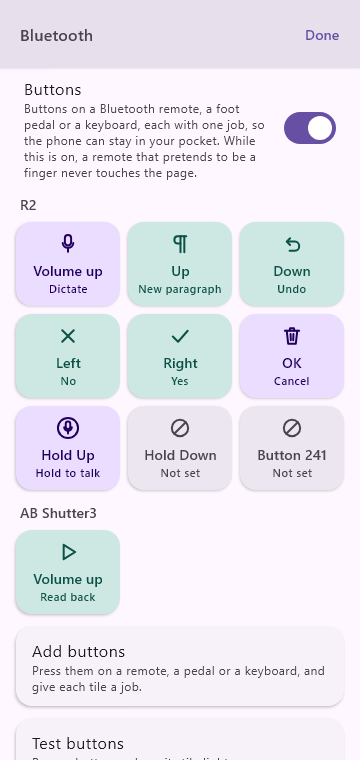
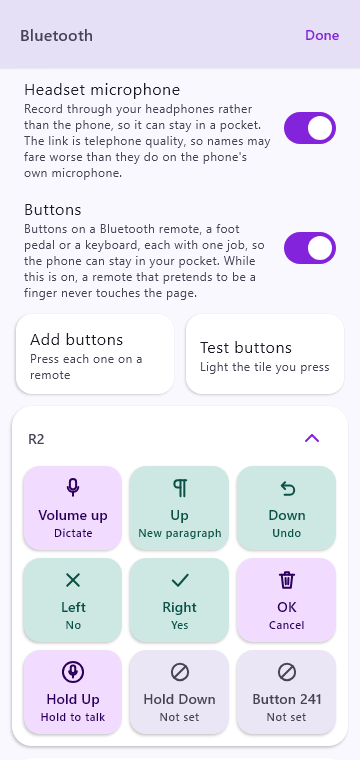
AKnght2Write page: hands-free is gone, and the newer commands and screens are listed
Hands-free was removed from the app on 2026-10-18, so the FAQ no longer says it is
built and waiting, the privacy page's microphone line drops the hands-free clause,
and "a long pause becomes a paragraph" goes, since nothing measures a pause between
presses. Added to the voice commands: line break and undo line break, quote <n>, add
note, turn on / turn off / set ... to; capitalize that on the word under the cursor.
The dialogue section mentions the pause between speakers and its two-passage
calibration. Two new tiles, the phone on its side and notes in the margin; the
Settings and Buttons captions follow the rebuilt screens, and the three screenshots
are today's renders. Support says the headset microphone is on from the start.

diff --git a/AKnght2Write/index.html b/AKnght2Write/index.html
@@ -152,7 +152,7 @@
           <article class="card">
             <div class="tile"><svg viewBox="0 0 24 24" fill="none" stroke="currentColor" stroke-width="2" stroke-linecap="round" stroke-linejoin="round" aria-hidden="true"><rect x="9" y="3" width="6" height="11" rx="3"/><path d="M5.5 11a6.5 6.5 0 0 0 13 0M12 17.5V21"/></svg></div>
             <h3 class="h-card">Wherever you are, talk</h3>
-            <p>On a walk, behind the wheel, or lying in bed: hold the button, or click a remote, and say the scene. Sentences arrive whole, with their punctuation. A long pause becomes a paragraph.</p>
+            <p>On a walk, behind the wheel, or lying in bed: hold the button, or click a remote, and say the scene. Sentences arrive whole, with their punctuation, and a new paragraph is one tap away.</p>
           </article>
           <article class="card">
             <div class="tile tile--mint"><svg viewBox="0 0 24 24" fill="none" stroke="currentColor" stroke-width="2" stroke-linecap="round" stroke-linejoin="round" aria-hidden="true"><path d="M4 9.5v5h3.5L12 18V6L7.5 9.5H4z"/><path d="M15.5 9a4 4 0 0 1 0 6M18 6.5a7.5 7.5 0 0 1 0 11"/></svg></div>
@@ -245,7 +245,7 @@
           <div class="split__copy">
             <p class="eyebrow">Made for fiction</p>
             <h2>Dialogue lands as dialogue.</h2>
-            <p>In Author mode, quotation marks come out curled and a new speaker starts a new paragraph. The recognizer decides what is dialogue from your tone of voice, and a flat reading can fool it. When it misses a line, say <span class="say">quote that</span> and the last thing you said is wrapped in quotation marks.</p>
+            <p>In Author mode, quotation marks come out curled and a new speaker starts a new paragraph. If you like, a pause between two lines can mark the change of speaker as well: read two short passages once, and the app learns how long your own pauses run. The recognizer decides what is dialogue from your tone of voice, and a flat reading can fool it. When it misses a line, say <span class="say">quote that</span> and the last thing you said is wrapped in quotation marks, or <span class="say">quote 7</span> for a sentence by its number on the page.</p>
             <p>Writing something that is not fiction? Standard mode writes what it hears and adds no quotation mark you did not ask for. The mode is remembered for each document.</p>
           </div>
           <div class="split__visual">
@@ -365,6 +365,8 @@
               <dt><span class="dot dot--safe"></span>new paragraph</dt><dd>Start a new paragraph</dd>
               <dt><span class="dot dot--safe"></span>new line</dt><dd>Break the line without starting a paragraph</dd>
               <dt><span class="dot dot--safe"></span>join paragraphs</dt><dd>Put this paragraph back onto the one above</dd>
+              <dt><span class="dot dot--safe"></span>line break</dt><dd>A scene break: a line across the page, with the next sentence under it</dd>
+              <dt><span class="dot dot--undo"></span>undo line break</dt><dd>Take the whole break out again, however long ago you made it</dd>
               <dt><span class="dot dot--safe"></span>new chapter &lt;title&gt;</dt><dd>Start a chapter</dd>
             </dl>
           </div>
@@ -391,7 +393,7 @@
             <dl>
               <dt><span class="dot dot--safe"></span>select last word</dt><dd>Or “sentence”, or “paragraph”</dd>
               <dt><span class="dot dot--safe"></span>select &lt;phrase&gt;</dt><dd>The last time you wrote that phrase</dd>
-              <dt><span class="dot dot--safe"></span>capitalize that</dt><dd>Also “all caps that” and “lowercase that”</dd>
+              <dt><span class="dot dot--safe"></span>capitalize that</dt><dd>Also “all caps that” and “lowercase that”. Put the cursor on a word and it works on that word</dd>
             </dl>
           </div>
           <div class="card">
@@ -400,6 +402,7 @@
               <dt><span class="dot dot--undo"></span>undo · redo</dt><dd>Take the last thing back, or put it back</dd>
               <dt><span class="dot dot--undo"></span>scratch that</dt><dd>Delete what you selected, or what you just said</dd>
               <dt><span class="dot dot--undo"></span>quote that</dt><dd>Put quotation marks around what you selected, or what you just said</dd>
+              <dt><span class="dot dot--undo"></span>quote &lt;n&gt;</dt><dd>Quotation marks around a sentence by its number on the page; “quote 7 to 9” takes a run of them</dd>
               <dt><span class="dot dot--undo"></span>replace &lt;x&gt; with &lt;y&gt;</dt><dd>Swap one phrase for another</dd>
             </dl>
           </div>
@@ -410,6 +413,15 @@
               <dt><span class="dot dot--asks"></span>delete last &lt;n&gt; sentences</dt><dd>Several at once, so it asks</dd>
               <dt><span class="dot dot--asks"></span>delete this paragraph</dt><dd>It quotes the opening words back to you first</dd>
               <dt><span class="dot dot--asks"></span>delete chapter &lt;n&gt; · clear everything</dt><dd>Asks, tells you the word count, and one undo brings it back</dd>
+            </dl>
+          </div>
+          <div class="card">
+            <h3>Notes and settings</h3>
+            <dl>
+              <dt><span class="dot dot--undo"></span>add note &lt;words&gt;</dt><dd>A note on the sentence you are in, kept beside the writing and never in it</dd>
+              <dt><span class="dot dot--undo"></span>add note to &lt;n&gt; &lt;words&gt;</dt><dd>The same, on a sentence by its number</dd>
+              <dt><span class="dot dot--safe"></span>turn on &lt;setting&gt; · turn off &lt;setting&gt;</dt><dd>Any switch in Settings, by its name: “turn off sentence numbers”</dd>
+              <dt><span class="dot dot--safe"></span>set &lt;setting&gt; to &lt;choice&gt;</dt><dd>“Set theme to dark mode”, “set landscape to one hand”</dd>
             </dl>
           </div>
         </div>
@@ -440,12 +452,12 @@
             <figcaption><b>The Library</b>Projects, folders, documents and chapters on one map, each with its word count.</figcaption>
           </figure>
           <figure class="shot">
-            <span class="bezel"><img src="../assets/img/app/settings.png" width="360" height="760" alt="Settings: the writing mode, Author or Standard, above folded sections for Visuals, Gamification, Bluetooth, While you write and The caret." loading="lazy"></span>
-            <figcaption><b>Settings that fold</b>The writing mode on top, everything else one tap away, and the master switches work while shut.</figcaption>
+            <span class="bezel"><img src="../assets/img/app/settings.png" width="360" height="760" alt="Settings: Theme, then the Dialogue heading carrying the writing mode, Author or Standard, above folded sections for The page, When words land, Felt and heard and Counting the writing." loading="lazy"></span>
+            <figcaption><b>Settings that fold</b>The writing mode on the first heading, everything else one tap away, and the master switches work while shut.</figcaption>
           </figure>
           <figure class="shot">
             <span class="bezel"><img src="../assets/img/app/buttons.png" width="360" height="760" alt="The Bluetooth screen, with each remote shown as a card of button tiles." loading="lazy"></span>
-            <figcaption><b>Buttons</b>Every remote is a card of tiles. Press a button to add it, tap its tile to give it a job.</figcaption>
+            <figcaption><b>Buttons</b>Every remote is a card of tiles, one open at a time. Press a button to add it, tap its tile to give it a job.</figcaption>
           </figure>
         </div>
 
@@ -464,6 +476,16 @@
             <div class="tile tile--amber"><svg viewBox="0 0 24 24" fill="none" stroke="currentColor" stroke-width="2" stroke-linecap="round" stroke-linejoin="round" aria-hidden="true"><path d="M10 4.500h8M13 4.500V20M17 4.500V20M13 12.500h-2.500a4 4 0 0 1 0-8"/></svg></div>
             <h3 class="h-card">A paragraph is a button</h3>
             <p>Dialogue needs a new paragraph at every turn, and saying so each time is slow. The ¶ button does it instantly, with the same undo as the spoken command.</p>
+          </article>
+          <article class="card">
+            <div class="tile"><svg viewBox="0 0 24 24" fill="none" stroke="currentColor" stroke-width="2" stroke-linecap="round" stroke-linejoin="round" aria-hidden="true"><rect x="2.500" y="6.500" width="19" height="11" rx="2"/><path d="M6 10v4M18 10v4"/></svg></div>
+            <h3 class="h-card">On its side</h3>
+            <p>Turn the phone and the buttons move to rails under your thumbs: Dictate and Command under one, Undo and ¶ under the other, or all four under one hand. A left-hand mode swaps them over.</p>
+          </article>
+          <article class="card">
+            <div class="tile tile--mint"><svg viewBox="0 0 24 24" fill="none" stroke="currentColor" stroke-width="2" stroke-linecap="round" stroke-linejoin="round" aria-hidden="true"><path d="M6 3.500h9l4 4V20.500H6z"/><path d="M15 3.500v4h4M9 12.500h6M9 16h4"/></svg></div>
+            <h3 class="h-card">Notes in the margin</h3>
+            <p>Say <span class="say">add note to seven</span> and what follows is kept beside sentence seven, never in it. Notes travel with their sentence, live in a file beside the document, and are listed by chapter.</p>
           </article>
         </div>
       </div>
@@ -590,7 +612,7 @@
           </details>
           <details>
             <summary>What about hands-free?</summary>
-            <div><p>Hands-free dictation with a wake word is built and works in our testing, but it is not switched on in the phone app yet. Holding a button, or clicking a remote, is more dependable when you are on the move, so that came first.</p></div>
+            <div><p>There is none, on purpose. We built a wake-word mode and measured it, and it was never going to be dependable on the move. The microphone opens only while you hold a button or between a remote’s start and send clicks, which is also what lets the app promise it never listens on its own.</p></div>
           </details>
           <details>
             <summary>Can I get my writing out?</summary>

diff --git a/AKnght2Write/privacy/index.html b/AKnght2Write/privacy/index.html
@@ -62,7 +62,7 @@
         <h2>What the app keeps, and where</h2>
         <p>Everything below stays on your device, in the app’s own storage or in the place your writing lives.</p>
         <ul>
-          <li><strong>Your voice.</strong> The microphone is used only while you are dictating: from the press of the button until what you said is sent, or while hands-free listening is switched on and the app is on screen. Each recording is saved on the device so that it cannot be lost, turned into words on the device, and deleted once those words are on the page.</li>
+          <li><strong>Your voice.</strong> The microphone is used only while you are dictating: from the press of the button until what you said is sent, or between a remote’s start and send clicks, with the app on screen. Each recording is saved on the device so that it cannot be lost, turned into words on the device, and deleted once those words are on the page.</li>
           <li><strong>Commands it could not make out.</strong> When a spoken command is not understood, its recording is kept in the device’s memory so that you can play it back, and is gone when you open another document or close the app. It is never written to storage.</li>
           <li><strong>Your writing.</strong> Documents are plain text files. On an iPhone they are in the app’s own folder on the phone, visible in the Files app under <em>On My iPhone</em>. On Android they are in the folder you chose. On a computer they are in <em>Documents › AKnght2Write › Library</em>. If your writing is in a place another service syncs (iCloud Drive, or a folder you back up yourself), that service handles those files under its own terms. We never see them.</li>
           <li><strong>Your cast list and settings.</strong> The names you have taught the app, your preferences, the count of words dictated this week and whether a subscription is active are kept on the device.</li>
@@ -92,7 +92,7 @@
 
         <h2>Changes and questions</h2>
         <p>If this policy changes, the new version will be posted here with its date. Questions are welcome at <a href="mailto:admin@aknghtstudios.com">admin@aknghtstudios.com</a>, and the <a href="../support/index.html">support page</a> answers the common ones.</p>
-        <p class="fine">Last updated 26 September 2026.</p>
+        <p class="fine">Last updated 18 October 2026.</p>
       </div>
     </div>
   </main>

diff --git a/AKnght2Write/support/index.html b/AKnght2Write/support/index.html
@@ -89,7 +89,7 @@
         <ul>
           <li><strong>A remote’s buttons:</strong> <em>Settings › Bluetooth › Add buttons</em>, then press each button on the remote and choose what it does. <em>Test buttons</em> shows exactly what a button sends, which is the quickest way to find out whether a remote works with your phone.</li>
           <li><strong>Hearing the app in headphones:</strong> this happens on its own. The tones, playback and read-back go to whatever headphones are connected.</li>
-          <li><strong>Speaking into a headset:</strong> switch on <em>Settings › Bluetooth › Headset microphone</em>. It lets you dictate with the phone in a pocket or across the room. It costs sound quality: while it is on, the headset works as it does for a phone call, and music will not play through it.</li>
+          <li><strong>Speaking into a headset:</strong> <em>Settings › Bluetooth › Headset microphone</em>, which is on from the start on a new install. It lets you dictate with the phone in a pocket or across the room. It costs sound quality: while it is on, the headset works as it does for a phone call, and music will not play through it.</li>
         </ul>
 
         <h2>Something else is wrong</h2>
